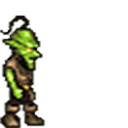
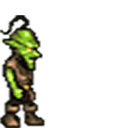
Adjusted assets of enemies

diff --git a/Trulon2.0/Trulon2.0/CoreLogics/Engine.cs b/Trulon2.0/Trulon2.0/CoreLogics/Engine.cs
@@ -242,15 +242,15 @@
                 {
                     if (enemy is Goblin)
                     {
-                        enemy.Initialize(Content.Load<Texture2D>(Assets.GoblinImages[0]), enemy.Position);
+                        enemy.Initialize(Content.Load<Texture2D>(Assets.GoblinImages[4]), enemy.Position);
                     }
                     else if (enemy is Ogre)
                     {
-                        enemy.Initialize(Content.Load<Texture2D>(Assets.OgreImages[0]), enemy.Position);
+                        enemy.Initialize(Content.Load<Texture2D>(Assets.OgreImages[4]), enemy.Position);
                     }
                     else
                     {
-                        enemy.Initialize(Content.Load<Texture2D>(Assets.RoboImages[0]), enemy.Position);
+                        enemy.Initialize(Content.Load<Texture2D>(Assets.RoboImages[4]), enemy.Position);
                     }
                 }
             }
